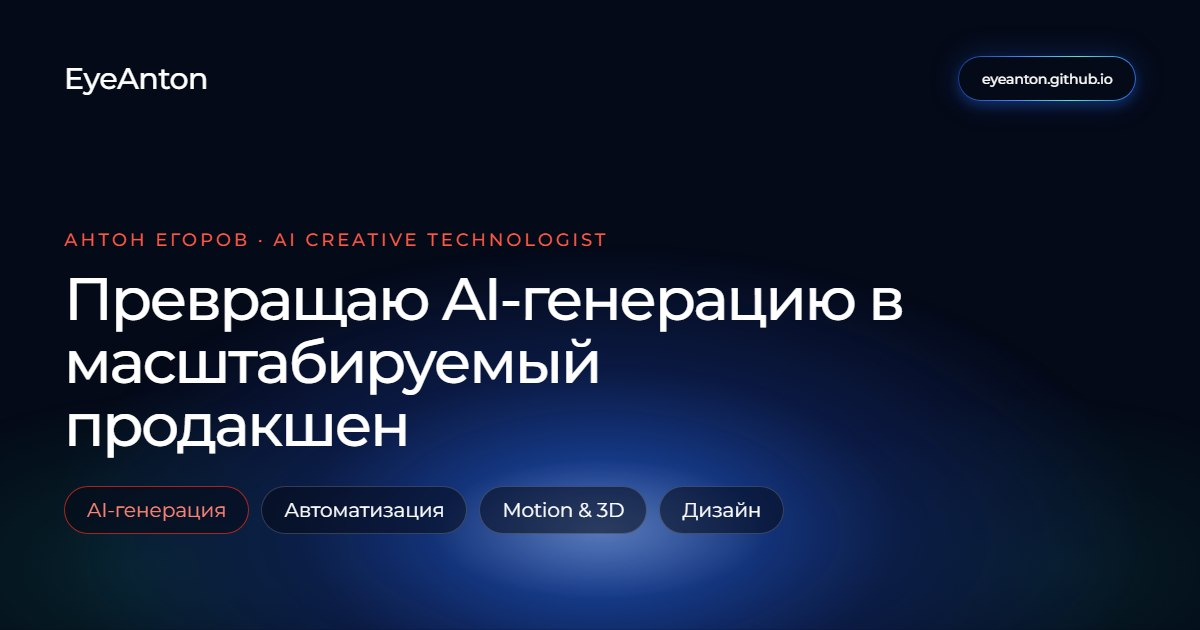
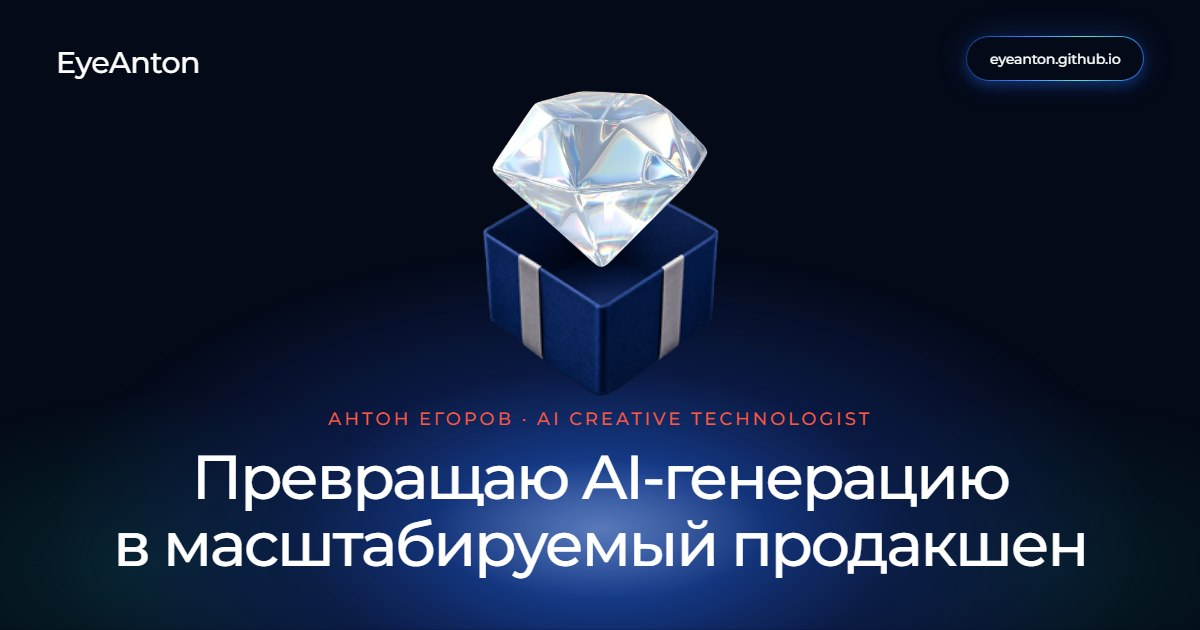
Link preview: new og.jpg matching current hero (box with gift, centered)

Changed region(s): [[0.0308, 0.1206, 0.925, 0.9349], [0.7708, 0.0302, 0.9558, 0.181], [0.0308, 0.0905, 0.185, 0.1508]]

diff --git a/tools/og.html b/tools/og.html
@@ -8,31 +8,29 @@
   <link rel="stylesheet" href="../design-system.css">
   <style>
     html, body { width: 1200px; height: 630px; overflow: hidden; }
-    .og { position: relative; isolation: isolate; width: 1200px; height: 630px; padding: 56px 64px; display: flex; flex-direction: column; }
-        .og .aurora { -webkit-mask-image: none; mask-image: none; }
-    .og-top { display: flex; align-items: center; justify-content: space-between; }
-    .og-logo { display: inline-flex; align-items: center; font: 500 30px/1 var(--font); letter-spacing: var(--track-snug); }
-    .og-logo span { color: var(--accent); }
-    .og-main { margin-top: auto; margin-bottom: 40px; }
-    .og h1 { margin: 18px 0 0; max-width: 21ch; font: 500 60px/1.05 var(--font); letter-spacing: var(--track-tight); }
-    .og .eyebrow { font-size: 18px; }
-    .og-tags { display: flex; gap: 12px; margin-top: 30px; }
-    .og-tags span { font: 400 20px/1 var(--font); padding: 13px 22px; border-radius: var(--pill); border: 1px solid rgba(255, 255, 255, .18); background: rgba(5, 10, 24, .55); }
-    .og-tags span:first-child { border-color: rgba(236, 47, 31, .7); color: var(--red-300); }
+    .og { position: relative; isolation: isolate; width: 1200px; height: 630px; padding: 36px 64px 52px; display: flex; flex-direction: column; align-items: center; text-align: center; }
+    .og .aurora { -webkit-mask-image: none; mask-image: none; }
+    .og-logo { position: absolute; left: 56px; top: 48px; font: 500 30px/1 var(--font); letter-spacing: var(--track-snug); }
+    .og-url { position: absolute; right: 56px; top: 36px; }
+    .og-box { position: relative; width: 250px; height: 250px; margin-top: auto; }
+    .og-box img { position: absolute; inset: 0; width: 100%; height: 100%; }
+    .og-box .gift { inset: auto; left: 50%; top: -22%; width: 86%; height: auto; transform: translateX(-50%); }
+    .og .eyebrow { margin: 14px 0 0; font-size: 18px; }
+    .og h1 { margin: 16px 0 0; font: 500 62px/1.08 var(--font); letter-spacing: var(--track-tight); }
   </style>
 </head>
 <body>
   <div class="og">
     <div class="aurora" aria-hidden="true"></div>
-    <div class="og-top">
-      <span class="og-logo">EyeAnton</span>
-      <span class="btn ghost">eyeanton.github.io</span>
+    <span class="og-logo">EyeAnton</span>
+    <span class="btn ghost og-url">eyeanton.github.io</span>
+    <div class="og-box">
+      <img src="../assets/unbox/box_bottom.png" alt="">
+      <img class="gift" src="https://eyeanton.github.io/gift-catalog/assets/thumbs/sep__diamond_3d.webp" alt="">
+      <img src="../assets/unbox/box_hole.png" alt="">
     </div>
-    <div class="og-main">
-      <p class="eyebrow">Антон Егоров · AI Creative Technologist</p>
-      <h1>Превращаю AI-генерацию в масштабируемый продакшен</h1>
-      <div class="og-tags"><span>AI-генерация</span><span>Автоматизация</span><span>Motion &amp; 3D</span><span>Дизайн</span></div>
-    </div>
+    <p class="eyebrow">Антон Егоров · AI Creative Technologist</p>
+    <h1>Превращаю AI-генерацию<br>в масштабируемый продакшен</h1>
   </div>
 </body>
 </html>

diff --git a/index.html b/index.html
@@ -10,7 +10,7 @@
   <meta property="og:description" content="Антон Егоров, AI Creative Technologist: AI-генерация, motion/3D и автоматизация креативного продакшена. Портфолио и резюме.">
   <meta property="og:type" content="website">
   <meta property="og:url" content="https://eyeanton.github.io/">
-  <meta property="og:image" content="https://eyeanton.github.io/assets/og.jpg">
+  <meta property="og:image" content="https://eyeanton.github.io/assets/og.jpg?v=2">
   <meta property="og:image:width" content="1200">
   <meta property="og:image:height" content="630">
   <meta name="twitter:card" content="summary_large_image">

diff --git a/projects.html b/projects.html
@@ -10,7 +10,7 @@
   <meta property="og:description" content="Проекты Антона Егорова: AI-визуал, motion/3D, сайты, прошивки и инструменты.">
   <meta property="og:type" content="website">
   <meta property="og:url" content="https://eyeanton.github.io/projects.html">
-  <meta property="og:image" content="https://eyeanton.github.io/assets/og.jpg">
+  <meta property="og:image" content="https://eyeanton.github.io/assets/og.jpg?v=2">
   <meta property="og:image:width" content="1200">
   <meta property="og:image:height" content="630">
   <meta name="twitter:card" content="summary_large_image">

diff --git a/project.html b/project.html
@@ -10,7 +10,7 @@
   <meta property="og:description" content="Проекты Антона Егорова: AI-визуал, motion/3D, сайты, прошивки и инструменты.">
   <meta property="og:type" content="website">
   <meta property="og:url" content="https://eyeanton.github.io/project.html">
-  <meta property="og:image" content="https://eyeanton.github.io/assets/og.jpg">
+  <meta property="og:image" content="https://eyeanton.github.io/assets/og.jpg?v=2">
   <meta property="og:image:width" content="1200">
   <meta property="og:image:height" content="630">
   <meta name="twitter:card" content="summary_large_image">

diff --git a/contact.html b/contact.html
@@ -10,7 +10,7 @@
   <meta property="og:description" content="Связаться с Антоном Егоровым и скачать резюме (RU/EN).">
   <meta property="og:type" content="website">
   <meta property="og:url" content="https://eyeanton.github.io/contact.html">
-  <meta property="og:image" content="https://eyeanton.github.io/assets/og.jpg">
+  <meta property="og:image" content="https://eyeanton.github.io/assets/og.jpg?v=2">
   <meta property="og:image:width" content="1200">
   <meta property="og:image:height" content="630">
   <meta name="twitter:card" content="summary_large_image">
